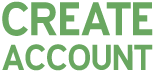
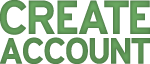
Improving ribbon graphics and adding more user-friendly messages re: registration.

diff --git a/sites/all/themes/drupalcampaustin/styles/style.css b/sites/all/themes/drupalcampaustin/styles/style.css
@@ -238,7 +238,7 @@ body {
             }
             #header-ribbon img {
               display: block;
-              margin: 0 auto 10px auto;
+              margin: 0 auto 5px auto;
               }
             #header-ribbon img.steps {
               margin-bottom: 20px;

diff --git a/sites/all/themes/drupalcampaustin/template.php b/sites/all/themes/drupalcampaustin/template.php
@@ -73,7 +73,8 @@ function drupalcamp_preprocess_node_profile(&$vars, $node, $node_author) {
   // Leave a helpful message for the user if they are viewing their own
   // profile page
   if ($vars['is_my_node']) {
-    drupal_set_message(t('Hi! You are viewing your profile page. You can change this information by clicking the !edit link above. If you need to change account information (password, email address, etc.), you should visit !youraccountpage. You account page is not publicly visible.', array('!edit' => l(t('edit'), 'node/' . $node->nid . '/edit'), '!youraccountpage' => l(t('your account page'), 'user/' . $user->uid))));
+    drupal_set_message(t('You are viewing your <strong>profile page</strong>, which is publicly visible. You can change this information by clicking the !edit link above.', array('!edit' => l(t('edit'), 'node/' . $node->nid . '/edit'), )));
+    drupal_set_message(t('If you need to change account information (password, email address, etc.), you should visit !youraccountpage, which is not publicly visible.', array('!youraccountpage' => l(t('your account page'), 'user/' . $user->uid))));
   }
 
   // Build a list of roles
